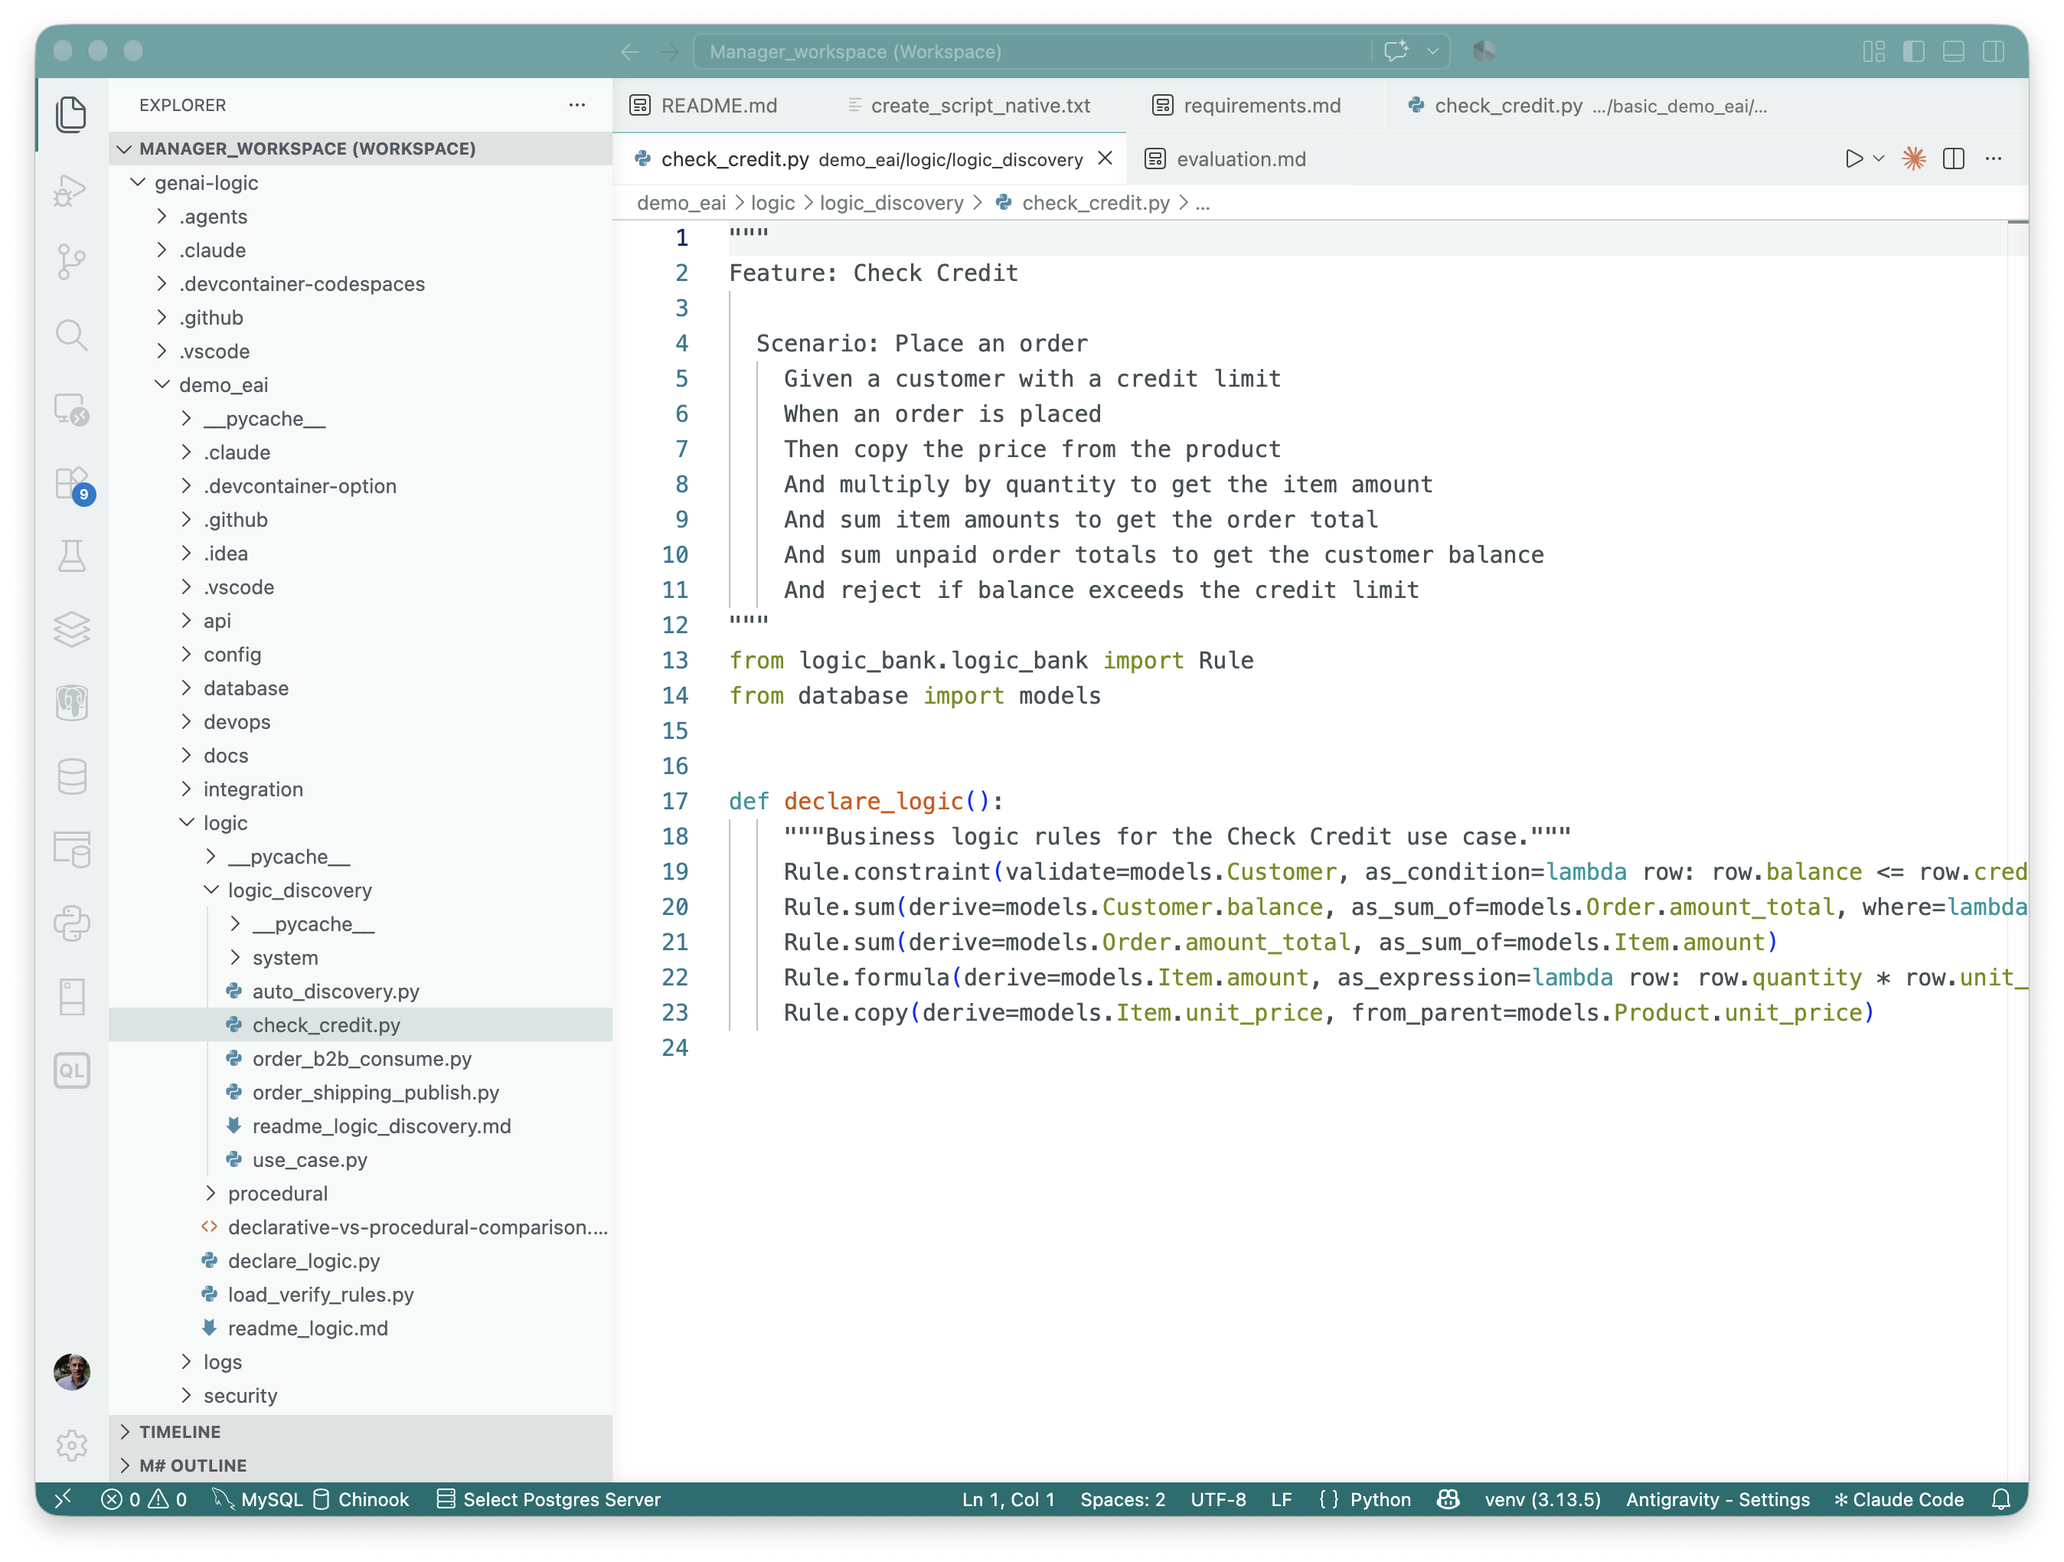
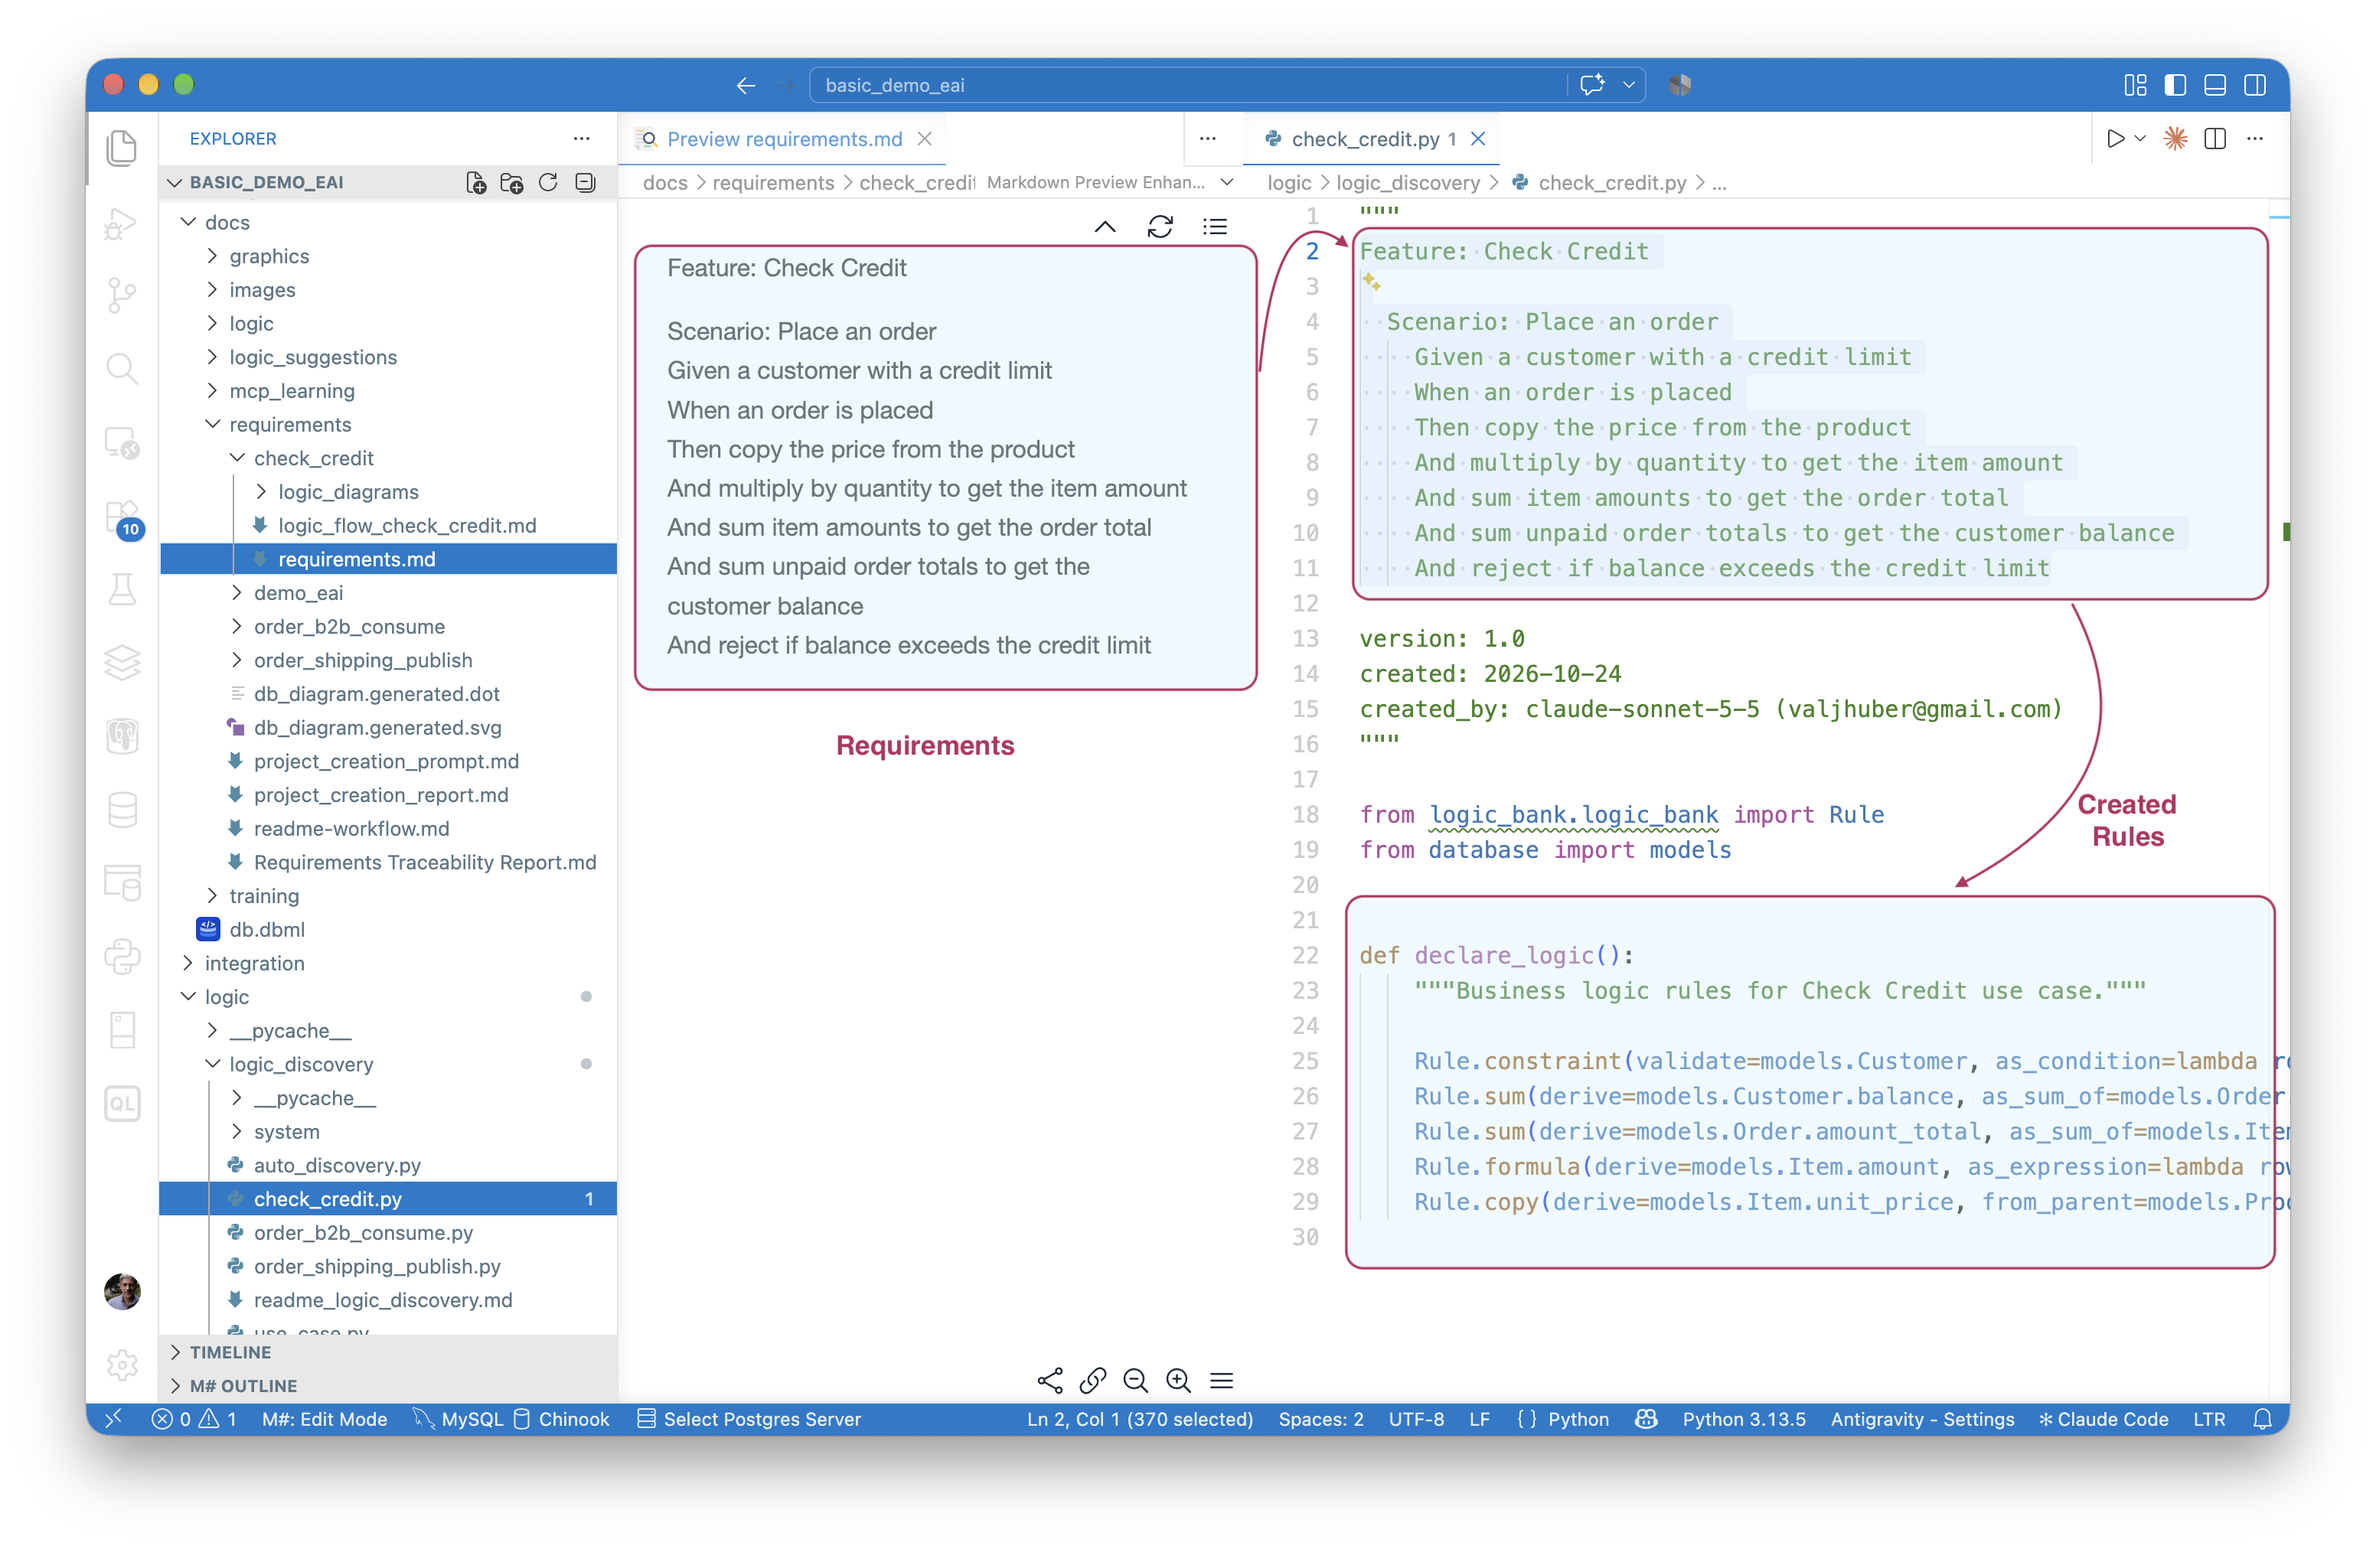
diagram from correct project

Changed region(s): [[0.0, 0.0, 0.997, 0.996], [0.7478, 0.4358, 0.8724, 0.4669], [0.3116, 0.5292, 0.3427, 0.5603]]

diff --git a/docs/Sample-Basic-EAI.md b/docs/Sample-Basic-EAI.md
@@ -226,7 +226,7 @@ Use case: App Integration
     1. Send the Order to Kafka topic 'order_shipping' if the date_shipped is not None.
 ```
 
-![Nat Lang Logic](images/sample-ai/copilot/copilot-logic-vibe.png)
+![Nat Lang Logic](images/integration/demo_eai/rules_code.png)
 
 > **These rules are declared once, on the data — not once per entry point.** LogicBank hooks
 > the database commit itself, so Check Credit fires on *every* write path that touches an
